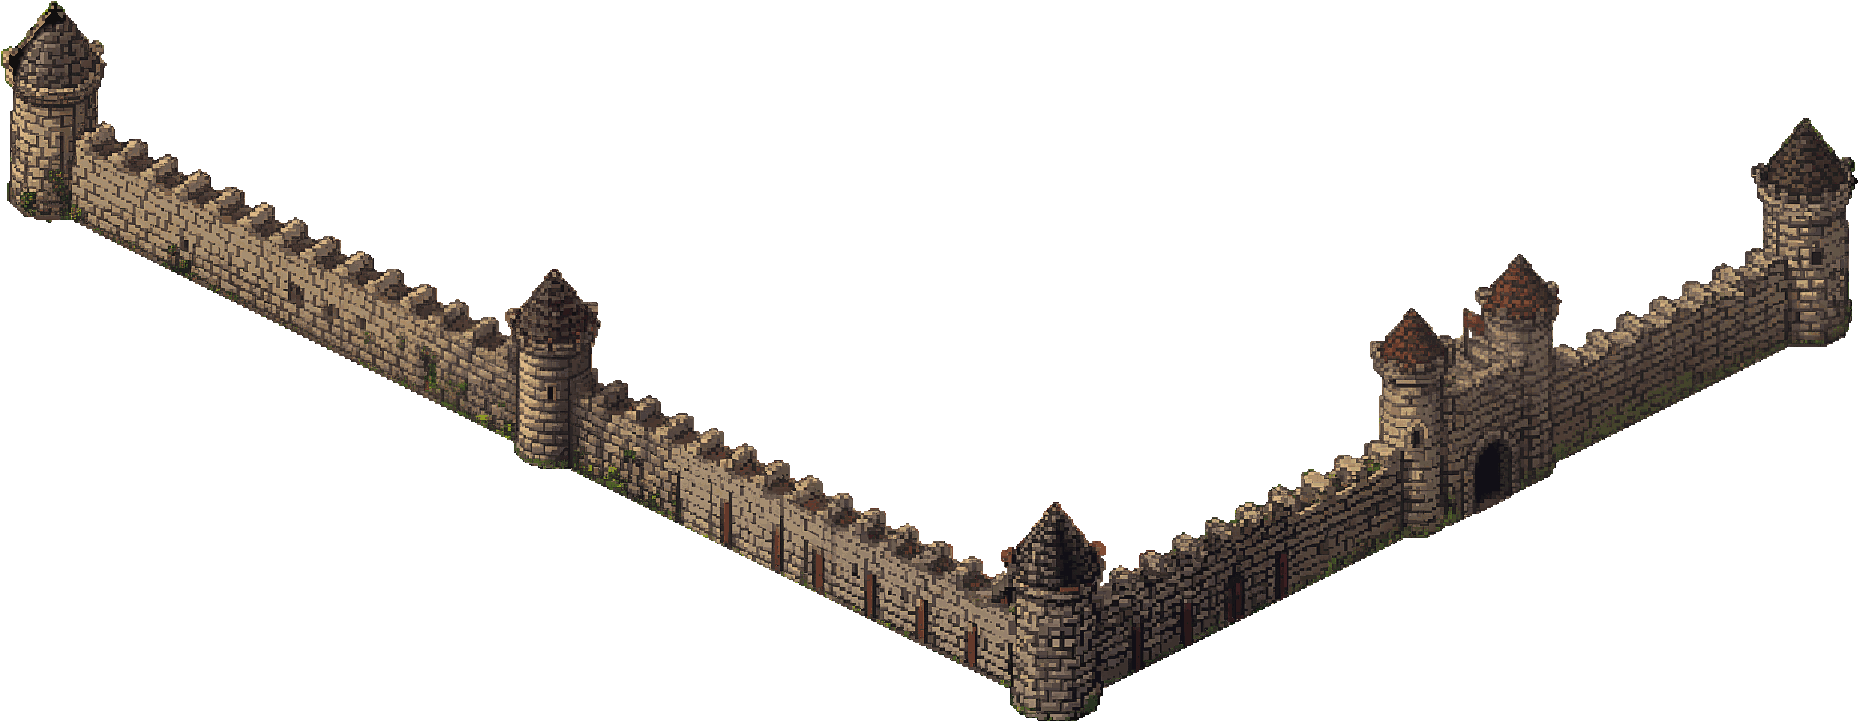
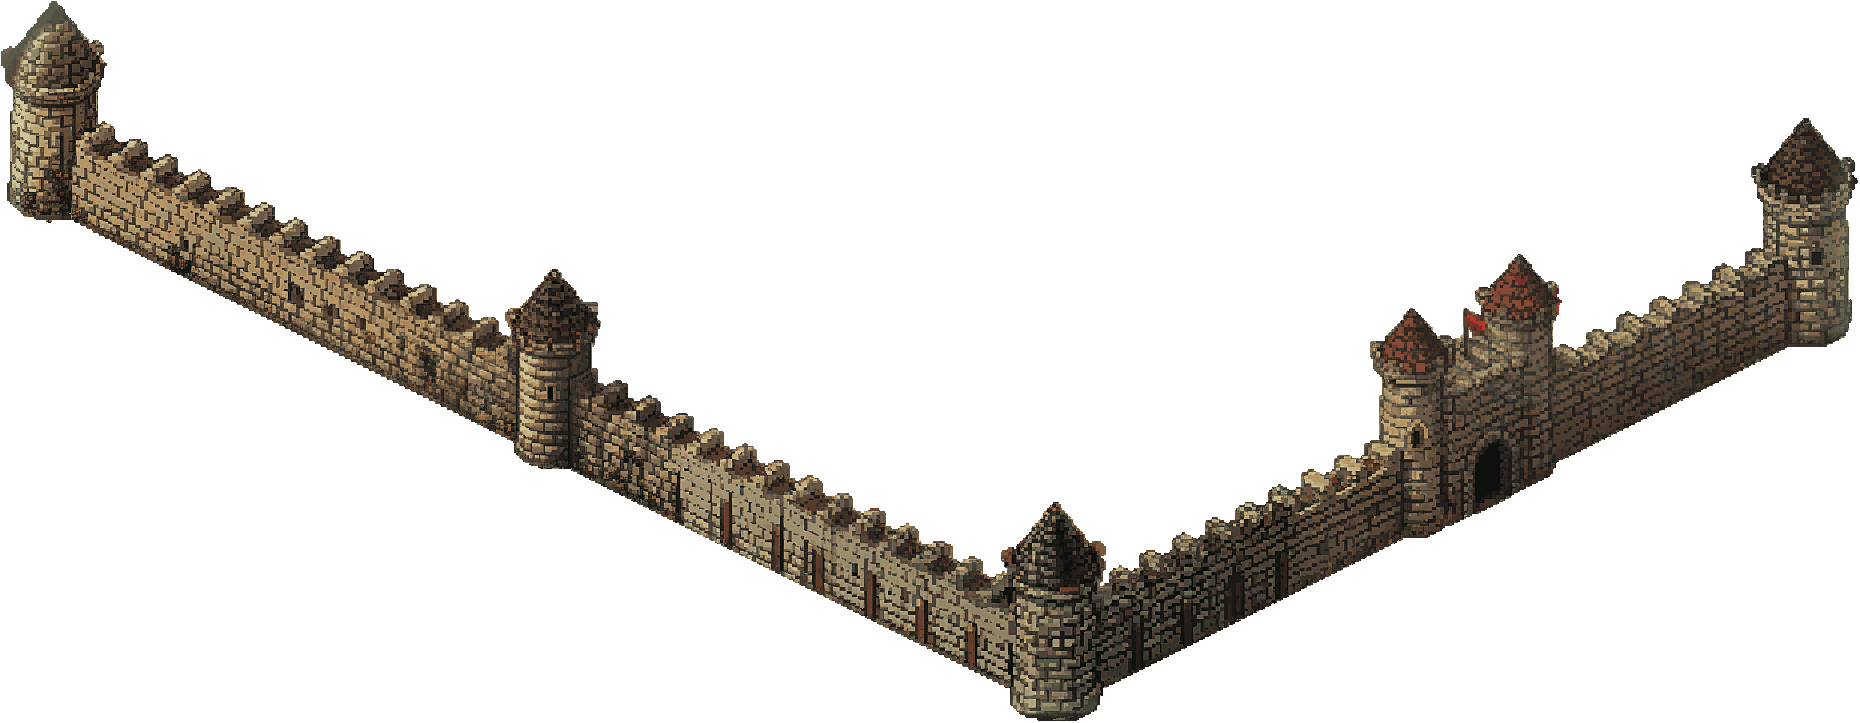
Ic kale arka plani: denetim duzeltmeleri
Burc, sol arka kule ve iki arka sur bayragi dusuk denoise (0.25) ve guclu
ControlNet (0.9) ile yeniden cizildi, tonu eski bolgeye esitlendi. Kucuk kirmizi
detaylar (sancak, bayrak, tente, kapi) eskiden piksel piksel geri tasindi.
Genis olcekli ton eskiye gore dengelendi (kuzey sur dikisi, koyu orman, krem
lekeler). Binalarla ortak 48 renk palet, tek piksel kirintilari temizlendi.
Kuyu altindaki yol parcasi koruma gecisiyle duzeltildi. on.png ayni son islemle.

diff --git a/motor-deneme-5b8e2f/uretim/betikler/arka_hd.py b/motor-deneme-5b8e2f/uretim/betikler/arka_hd.py
@@ -90,6 +90,10 @@ def parca(rgb, x, y, t, ad):
 def palet(ad, kis=False):
     """Palette image (max 256 colours) from the original, plus snow colours for winter."""
     src = [np.asarray(kaynak(ad))]
+    for b in ("ev", "demirci", "duvarci", "oduncu"):  # shared palette with the buildings
+        for n in (1, 2, 3):
+            if os.path.exists(f"{KALE}/{b}{n}.png"):
+                src.append(np.asarray(Image.open(f"{KALE}/{b}{n}.png").convert("RGBA")))
     if kis:
         for f in ("demirci1_karli", "ev2_karli", "oduncu2_karli", "kisla_karli"):
             for d in (f"{KALE}/varyant", f"{KALE}/sus/ic2"):
@@ -98,12 +102,34 @@ def palet(ad, kis=False):
     px = np.concatenate([s.reshape(-1, 4) for s in src])
     px = px[px[:, 3] > 200][:, :3]
     strip = Image.fromarray(px.reshape(1, -1, 3).astype(np.uint8))
-    q = strip.quantize(colors=96 if kis else 64, method=Image.Quantize.MEDIANCUT, dither=Image.Dither.NONE)
+    q = strip.quantize(colors=96 if kis else 48, method=Image.Quantize.MEDIANCUT, dither=Image.Dither.NONE)
     return q
 
 
 def kuantala(im, pal):
     return im.convert("RGB").quantize(palette=pal, dither=Image.Dither.NONE).convert("RGB")
+
+
+def tek_piksel(im, koru_m=None):
+    """3x3 mode filter only for lone pixels: a pixel whose colour has no 8-neighbour of the same colour
+    takes the colour most of its neighbours share (salt-and-pepper dots, 1 px brick crumbs)."""
+    a = np.asarray(im.convert("RGB")).astype(np.int32)
+    kod = (a[..., 0] << 16) | (a[..., 1] << 8) | a[..., 2]
+    H, W = kod.shape
+    p = np.pad(kod, 1, mode="edge")
+    komsu = [p[1 + dy:1 + dy + H, 1 + dx:1 + dx + W] for dy in (-1, 0, 1) for dx in (-1, 0, 1) if dy or dx]
+    komsu = np.stack(komsu)                                   # 8 x H x W
+    yalniz = ~(komsu == kod).any(0)
+    say = (komsu[None] == komsu[:, None]).sum(1)              # how many neighbours share each neighbour's colour
+    en = komsu[say.argmax(0), np.arange(H)[:, None], np.arange(W)[None]]
+    cogunluk = say.max(0) >= 4
+    yer = yalniz & cogunluk
+    if koru_m is not None:
+        from scipy import ndimage
+        yer &= ~ndimage.binary_dilation(koru_m, iterations=2)
+    kod = np.where(yer, en, kod)
+    out = np.stack([(kod >> 16) & 255, (kod >> 8) & 255, kod & 255], -1).astype(np.uint8)
+    return Image.fromarray(out)
 
 
 def izgara(W, H, t, ov):
@@ -160,7 +186,12 @@ def deneme(a):
 KORU = {
     "arka": {"kuyu_tezgah": (486, 296, 548, 380), "tezgah2": (558, 334, 606, 382),
              "fici": (566, 292, 594, 322), "araba": (774, 314, 828, 372), "fener": (700, 340, 726, 392),
-             "saman": (770, 496, 884, 560), "burc": (936, 214, 1256, 456)},
+             "saman": (770, 496, 884, 560),
+             # second round (review): keep, left back tower and the two back-wall banners, lower denoise,
+             # stronger ControlNet
+             "burc2": ((936, 214, 1256, 456), 0.25, 0.9), "kule_sol": ((250, 105, 315, 200), 0.25, 0.9),
+             "bayrak_sol": ((342, 100, 378, 145), 0.25, 0.9), "bayrak_sag": ((745, 100, 781, 145), 0.25, 0.9),
+             "yol": ((488, 370, 556, 412), 0.25, 0.9)},
     "on": {},
 }
 
@@ -171,17 +202,20 @@ def koru(res, rgb, a):
         return res
     kis = "_kis" if a.kis else ""
     jobs, meta = [], []
-    for ad, (x0, y0, x1, y1) in kutular.items():
+    for ad, kutu in kutular.items():
+        (x0, y0, x1, y1), kd, kcn = kutu if len(kutu) == 3 else (kutu, a.koru_d, 0.8)
         X0, Y0, X1, Y1 = [round(v * 1.5) for v in (x0 - 6, y0 - 6, x1 + 6, y1 + 6)]
         s = max(X1 - X0, Y1 - Y0)
         k = max(2, 1024 // s)
+        if len(kutu) == 3:
+            k = min(4, k)  # small boxes: do not zoom past 4x (first-round boxes keep their cached scale)
         c = rgb.crop((X0, Y0, X0 + s, Y0 + s))
         inp = Image.new("RGB", (1024, 1024), BG)
         inp.paste(c.resize((s * k, s * k), Image.Resampling.NEAREST), (0, 0))
         fa = f"hdk_{a.ad}{kis}_{ad}.png"
         inp.save(f"{B.COMFY}/input/{fa}")
-        pre = f"son-kale-v2/arka_hd/koru_{a.ad}{kis}_{ad}_d{int(a.koru_d * 100)}"
-        wf = workflow(fa, fa, pre, a.seed, a.koru_d, 0.8, POS_KIS if a.kis else POS, NEG_KIS if a.kis else NEG)
+        pre = f"son-kale-v2/arka_hd/koru_{a.ad}{kis}_{ad}_d{int(kd * 100)}"
+        wf = workflow(fa, fa, pre, a.seed, kd, kcn, POS_KIS if a.kis else POS, NEG_KIS if a.kis else NEG)
         wf["12"]["inputs"].update(low_threshold=0.3, high_threshold=0.6)
         jobs.append((pre, wf))
         meta.append((pre, X0, Y0, s, k))
@@ -196,6 +230,11 @@ def koru(res, rgb, a):
     for pre, X0, Y0, s, k in meta:
         g = Image.open(out[pre]).convert("RGB").crop((0, 0, s * k, s * k)).resize((s, s), Image.Resampling.BOX)
         g = g.filter(ImageFilter.UnsharpMask(radius=1.0, percent=a.keskin, threshold=2))
+        if not a.kis:  # keep the tone of the old art in this box (the redraw drifts to yellow-cream)
+            o = np.asarray(rgb.crop((X0, Y0, X0 + s, Y0 + s)), np.float32)
+            gg = np.asarray(g, np.float32)
+            gg = (gg - gg.mean((0, 1))) / (gg.std((0, 1)) + 1e-3) * o.std((0, 1)) + o.mean((0, 1))
+            g = Image.fromarray(gg.clip(0, 255).astype(np.uint8))
         m = Image.new("L", (s, s), 0)
         m.paste(255, (6, 6, s - 6, s - 6))
         res.paste(g, (X0, Y0), m.filter(ImageFilter.GaussianBlur(3)))
@@ -242,6 +281,23 @@ def tam(a):
     res = Image.fromarray(res.clip(0, 255).astype(np.uint8))
     res = res.filter(ImageFilter.UnsharpMask(radius=1.0, percent=a.keskin, threshold=2))
     res = koru(res, rgb, a)
+    kirmizi = None
+    if not a.kis:
+        o = np.asarray(rgb, np.float32)
+        r = np.asarray(res, np.float32)
+        # large-scale tone: follow the old art's local brightness/colour (dark north wall, dark forest,
+        # cream blotches), keep the new small-scale detail
+        from scipy import ndimage
+        yum = lambda x: np.stack([ndimage.gaussian_filter(x[..., c], 18) for c in range(3)], -1)
+        r = r + (yum(o) - yum(r))
+        # strong reds of the old art (banners, doors, roofs' red trims) come back pixel for pixel
+        kirmizi = (o[..., 0] > 100) & (o[..., 0] > o[..., 1] * 1.6) & (o[..., 0] > o[..., 2] * 1.6)
+        lab, n = ndimage.label(kirmizi)
+        if n:  # only small red parts (banners, flags, doors); roofs are redrawn, not pasted back
+            boy = np.bincount(lab.ravel()); boy[0] = 0
+            kirmizi = (boy < 1500)[lab] & kirmizi
+        r[kirmizi] = o[kirmizi]
+        res = Image.fromarray(r.clip(0, 255).astype(np.uint8))
     if alfa.getextrema()[0] < 255:
         # silhouette band: where the redraw painted the grey padding inside the kept mask, use the old pixel
         from scipy import ndimage
@@ -266,6 +322,12 @@ def tam(a):
         w2 = np.maximum(w2, np.clip((100 - kose) / 20, 0, 1))[..., None]
         res = Image.fromarray((np.asarray(res, np.float32) * (1 - w2) + np.asarray(rgb, np.float32) * w2).astype(np.uint8))
     im = kuantala(res, palet(a.ad, a.kis))
+    if not a.kis:
+        im = tek_piksel(im, kirmizi)
+        # the shared palette has no bright banner red: put those pixels back exactly
+        ia = np.asarray(im).copy()
+        ia[kirmizi] = np.asarray(rgb)[kirmizi]
+        im = Image.fromarray(ia)
     im = im.convert("RGBA")
     im.putalpha(alfa)
     adi = a.ad + ("_karli" if a.kis else "")

diff --git a/motor-deneme-5b8e2f/uretim/betikler/kar.py b/motor-deneme-5b8e2f/uretim/betikler/kar.py
@@ -29,7 +29,7 @@ def kar_rengi(lum, soguk=1.0):
     return golge + (isik - golge) * t ** 0.8
 
 
-def karla(im, alfa=None, kalinlik=3):
+def karla(im, alfa=None, kalinlik=4):
     a = np.asarray(im.convert("RGB")).astype(np.float32)
     mx, mn, s, r, g, b = hsv(a)
     lum = 0.299 * r + 0.587 * g + 0.114 * b
@@ -44,13 +44,14 @@ def karla(im, alfa=None, kalinlik=3):
     m = ndimage.uniform_filter(lum, 9)
     sd = np.sqrt(np.maximum(ndimage.uniform_filter(lum ** 2, 9) - m ** 2, 0))
     toprak &= r > g * 1.3
-    zemin = (cimen & (sd < 34)) | (toprak & (sd < 18))
+    golge_cimen = (g >= r) & (g > b) & (lum <= 55) & (sd < 12)            # smooth grass in tree shadow
+    zemin = (cimen & (sd < 34)) | (toprak & (sd < 18)) | golge_cimen
     zemin = ndimage.binary_closing(ndimage.binary_opening(zemin, np.ones((3, 3))), np.ones((5, 5)))
     lab, n = ndimage.label(zemin)
     if n:
         boy = np.bincount(lab.ravel()); boy[0] = 0
         zemin = (boy >= 300)[lab]
-    zemin &= (cimen | toprak | (sd < 10))
+    zemin &= (cimen | toprak | golge_cimen | (sd < 10))
     if alfa is not None:
         zemin &= alfa
     # ground: snow keeping the texture (local luminance) but compressed into bright tones
@@ -60,8 +61,12 @@ def karla(im, alfa=None, kalinlik=3):
     nesne = ~zemin
     nesne = ndimage.binary_opening(ndimage.binary_closing(nesne, np.ones((5, 5))), np.ones((3, 3)))
     zem = ndimage.binary_opening(zemin, np.ones((3, 3)))
-    for maske, kal in ((tas | cati, kalinlik), (agac, 2)):
-        m = nesne & ndimage.binary_closing(maske, np.ones((5, 5)))
+    if alfa is not None:
+        zem |= ~alfa  # on.png: empty space above the wall tops counts as open sky for the caps
+    agac_m = ndimage.binary_closing(agac & ~zemin, np.ones((5, 5)))
+    yapi = ~agac_m                                                        # walls, towers, roofs, their shadows
+    for maske, kal in ((yapi, kalinlik), (agac_m, 2)):
+        m = nesne & maske
         # ground within (kal + 3) px above: skips the dark outline row between wall top and ground
         ust = np.zeros_like(m)
         for d in range(1, kal + 4):
@@ -69,8 +74,24 @@ def karla(im, alfa=None, kalinlik=3):
             yukari[d:] = zem[:-d]
             ust |= m & yukari
         # only lit pixels, ragged lower edge so it reads as snow, not a painted line
-        ust &= lum > 45
+        if maske is agac_m:
+            ust &= lum > 45
         out[ust] = kar_rengi(lum[ust] * 0.4 + 150)
+        if maske is yapi:
+            # dark wall walk / shadowed tops a little further down: shaded snow
+            yol = np.zeros_like(m)
+            for d in range(kal + 4, 16):
+                yukari = np.zeros_like(m)
+                yukari[d:] = zem[:-d]
+                yol |= m & yukari
+            yol &= (lum < 75) & ~ust
+            out[yol] = kar_rengi(lum[yol] * 0.5 + 85)
+            kar_m = ust | yol
+            # 1 px cold outline under the snow so it reads as snow lying on the stone
+            alt = np.zeros_like(kar_m)
+            alt[1:] = kar_m[:-1]
+            alt &= ~kar_m & ~zemin & m
+            out[alt] = (58, 62, 82)
     return Image.fromarray(np.clip(out, 0, 255).astype(np.uint8))
 
 
